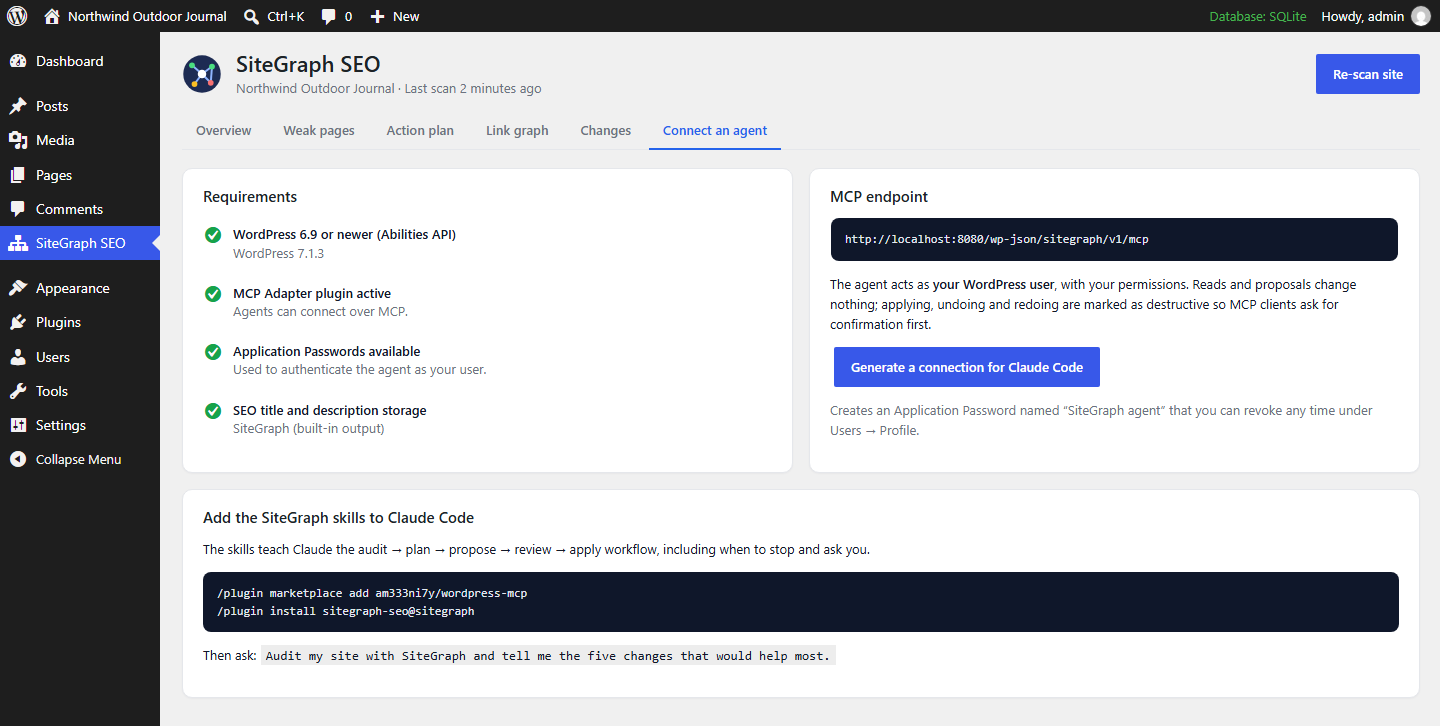
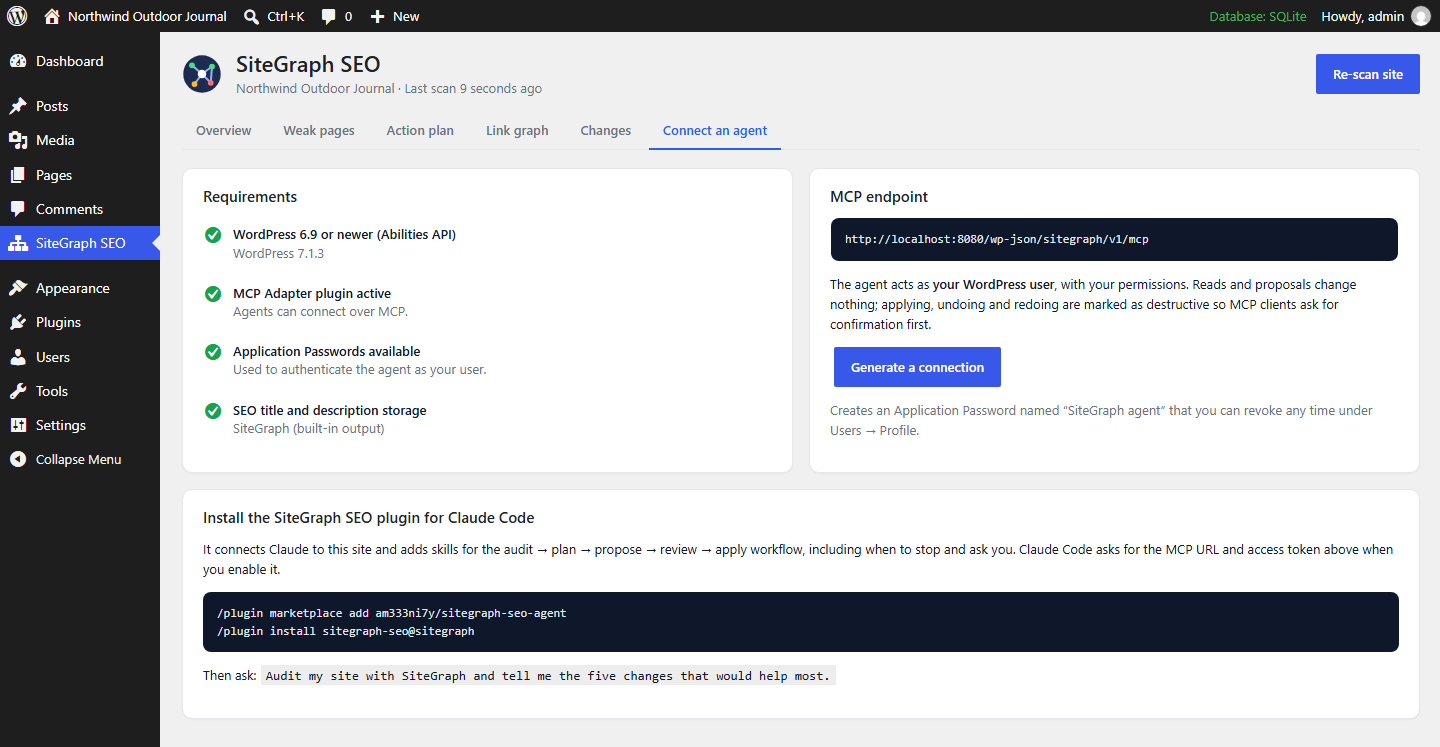
Rename to sitegraph-seo-agent and prepare the Claude plugin for the directory
- Update all links to github.com/am333ni7y/sitegraph-seo-agent
- Claude plugin connects to the site itself: .mcp.json with userConfig
  (MCP URL + access token, stored as a sensitive value)
- Add plugin README, LICENSE, icon, listing URLs and PRIVACY.md
- Connect screen shows the MCP URL and access token for the plugin
- Drop .gitattributes (the directory rejects content-rewriting attributes)
- WordPress plugin 0.1.1, Claude plugin 0.2.0

diff --git a/sitegraph-seo-agent/includes/class-admin.php b/sitegraph-seo-agent/includes/class-admin.php
@@ -745,23 +745,24 @@ class Admin {
 
 		echo '<div class="sg-card"><div class="sg-card-head"><h2>MCP endpoint</h2></div><p><code class="sg-code-block">' . esc_html( $endpoint ) . '</code></p>';
 		echo '<p>The agent acts as <strong>your WordPress user</strong>, with your permissions. Reads and proposals change nothing; applying, undoing and redoing are marked as destructive so MCP clients ask for confirmation first.</p>';
-		echo self::button_form( 'connect', array(), 'Generate a connection for Claude Code', 'button button-primary' ); // phpcs:ignore WordPress.Security.EscapeOutput
+		echo self::button_form( 'connect', array(), 'Generate a connection', 'button button-primary' ); // phpcs:ignore WordPress.Security.EscapeOutput
 		echo '<p class="sg-muted">Creates an Application Password named “SiteGraph agent” that you can revoke any time under Users → Profile.</p></div></div>';
 
 		if ( $connection ) {
 			$user  = wp_get_current_user()->user_login;
 			$token = base64_encode( $user . ':' . $connection ); // phpcs:ignore WordPress.PHP.DiscouragedPHPFunctions.obfuscation_base64_encode
 			echo '<div class="sg-card sg-secret"><div class="sg-card-head"><h2>Your connection (shown once)</h2></div>';
-			echo '<p>Run this in a terminal to add the server to Claude Code:</p>';
+			echo '<p><strong>With the SiteGraph SEO plugin for Claude:</strong> paste these two values when Claude Code asks for them.</p>';
+			echo '<p>MCP URL</p><pre class="sg-code-block">' . esc_html( $endpoint ) . '</pre>';
+			echo '<p>Access token</p><pre class="sg-code-block">' . esc_html( $token ) . '</pre>';
+			echo '<p><strong>Without the plugin:</strong> add the server yourself.</p>';
 			echo '<pre class="sg-code-block">claude mcp add --transport http sitegraph ' . esc_html( $endpoint ) . ' --header "Authorization: Basic ' . esc_html( $token ) . '"</pre>';
-			echo '<p>Or put this in a project’s <code>.mcp.json</code>:</p>';
-			echo '<pre class="sg-code-block">' . esc_html( wp_json_encode( array( 'mcpServers' => array( 'sitegraph' => array( 'type' => 'http', 'url' => $endpoint, 'headers' => array( 'Authorization' => 'Basic ' . $token ) ) ) ), JSON_PRETTY_PRINT | JSON_UNESCAPED_SLASHES ) ) . '</pre>';
-			echo '<p class="sg-muted">Treat this like a password. If it leaks, revoke the Application Password.</p></div>';
+			echo '<p class="sg-muted">Treat the token like a password. If it leaks, revoke the Application Password.</p></div>';
 		}
 
-		echo '<div class="sg-card"><div class="sg-card-head"><h2>Add the SiteGraph skills to Claude Code</h2></div>';
-		echo '<p>The skills teach Claude the audit → plan → propose → review → apply workflow, including when to stop and ask you.</p>';
-		echo '<pre class="sg-code-block">/plugin marketplace add am333ni7y/wordpress-mcp' . "\n" . '/plugin install sitegraph-seo@sitegraph</pre>';
+		echo '<div class="sg-card"><div class="sg-card-head"><h2>Install the SiteGraph SEO plugin for Claude Code</h2></div>';
+		echo '<p>It connects Claude to this site and adds skills for the audit → plan → propose → review → apply workflow, including when to stop and ask you. Claude Code asks for the MCP URL and access token above when you enable it.</p>';
+		echo '<pre class="sg-code-block">/plugin marketplace add am333ni7y/sitegraph-seo-agent' . "\n" . '/plugin install sitegraph-seo@sitegraph</pre>';
 		echo '<p>Then ask: <code>Audit my site with SiteGraph and tell me the five changes that would help most.</code></p></div>';
 	}
 }

diff --git a/sitegraph-seo-agent/sitegraph-seo-agent.php b/sitegraph-seo-agent/sitegraph-seo-agent.php
@@ -1,9 +1,9 @@
 <?php
 /**
  * Plugin Name:       SiteGraph SEO Agent
- * Plugin URI:        https://github.com/am333ni7y/wordpress-mcp
+ * Plugin URI:        https://github.com/am333ni7y/sitegraph-seo-agent
  * Description:       Finds your weak pages, turns your internal link graph and Search Console data into a prioritized action plan, and lets AI agents such as Claude fix issues as reviewable changesets with one-click undo and redo.
- * Version:           0.1.0
+ * Version:           0.1.1
  * Requires at least: 6.9
  * Requires PHP:      7.4
  * Author:            Amin Zahed (AMEEEN ZED) AMEEEN.IR
@@ -17,7 +17,7 @@
 
 defined( 'ABSPATH' ) || exit;
 
-define( 'SITEGRAPH_VERSION', '0.1.0' );
+define( 'SITEGRAPH_VERSION', '0.1.1' );
 define( 'SITEGRAPH_DB_VERSION', '1' );
 define( 'SITEGRAPH_FILE', __FILE__ );
 define( 'SITEGRAPH_DIR', plugin_dir_path( __FILE__ ) );

diff --git a/README.md b/README.md
@@ -2,7 +2,7 @@
 
 **Find the pages that are holding your WordPress site back, get a prioritized plan to fix them, and let Claude do the fixing — with a diff you approve and one-click undo.**
 
-[![CI](https://github.com/am333ni7y/wordpress-mcp/actions/workflows/ci.yml/badge.svg)](https://github.com/am333ni7y/wordpress-mcp/actions/workflows/ci.yml)
+[![CI](https://github.com/am333ni7y/sitegraph-seo-agent/actions/workflows/ci.yml/badge.svg)](https://github.com/am333ni7y/sitegraph-seo-agent/actions/workflows/ci.yml)
 ![WordPress 6.9+](https://img.shields.io/badge/WordPress-6.9%2B-21759b?logo=wordpress)
 ![PHP 7.4+](https://img.shields.io/badge/PHP-7.4%2B-777bb4?logo=php)
 ![MCP](https://img.shields.io/badge/MCP-Abilities%20API%20%2B%20MCP%20Adapter-7057ff)
@@ -150,26 +150,24 @@ Copy the [`sitegraph-seo-agent`](sitegraph-seo-agent) folder to `wp-content/plug
 
 Search Console → **Performance → Search results** → pick a date range → **Export → Download CSV**. Upload `Pages.csv` from the zip on the SiteGraph Overview screen.
 
-### 3. Connect Claude Code
+### 3. Generate a connection
 
-Open **SiteGraph SEO → Connect an agent** and click **Generate a connection for Claude Code**. It creates a revocable Application Password and shows a ready command once:
-
-```bash
-claude mcp add --transport http sitegraph https://your-site.com/wp-json/sitegraph/v1/mcp --header "Authorization: Basic <generated>"
-```
+Open **SiteGraph SEO → Connect an agent** and click **Generate a connection**. It creates a revocable Application Password and shows, once, the **MCP URL** and an **access token**.
 
 ![Connect screen with requirement checks, MCP endpoint and Claude Code setup](docs/screenshots/connect.png)
 
-### 4. Install the SiteGraph skills
+### 4. Install the SiteGraph SEO plugin for Claude Code
 
-The skills teach Claude the workflow: audit → plan → propose → review → apply, and when to stop and ask you. In Claude Code:
+The [Claude plugin](claude-plugin) connects Claude to your site and adds skills for the workflow: audit → plan → propose → review → apply, and when to stop and ask you. In Claude Code:
 
 ```text
-/plugin marketplace add am333ni7y/wordpress-mcp
+/plugin marketplace add am333ni7y/sitegraph-seo-agent
 /plugin install sitegraph-seo@sitegraph
 ```
 
-Then ask: *"Audit my site with SiteGraph and tell me the five changes that would help most."*
+Claude Code asks for the MCP URL and access token when you enable it; the token goes to your system's secure credential store. Then ask: *"Audit my site with SiteGraph and tell me the five changes that would help most."*
+
+Prefer to connect without the plugin? The Connect screen also shows a ready `claude mcp add --transport http sitegraph <MCP URL> --header "Authorization: Basic <token>"` command.
 
 | Skill | Use it for |
 |---|---|
@@ -240,7 +238,7 @@ Scores of 0–39 are *critical*, 40–59 *weak*, 60–79 *fair*, 80–100 *good*
 - **Exact, conflict-safe undo.** Changesets store the exact before/after of every field. Undo and redo refuse when content changed in the meantime and name the newer changeset that touched it; `force` exists but the skills only use it after you explicitly agree.
 - **History.** Who proposed, applied, undid and redid what, and when. WordPress revisions are still created as usual.
 
-See [SECURITY.md](SECURITY.md).
+See [SECURITY.md](SECURITY.md) and the [privacy policy](PRIVACY.md): SiteGraph has no server of its own, sends no telemetry, and the author receives no data.
 
 ---
 
@@ -278,11 +276,12 @@ CI runs the same suite on every push against the latest WordPress with SQLite an
 
 ```
 sitegraph-seo-agent/   WordPress plugin (abilities, MCP server, admin screens)
-claude-plugin/         Claude Code plugin: SiteGraph skills
-.claude-plugin/        Marketplace manifest (/plugin marketplace add am333ni7y/wordpress-mcp)
+claude-plugin/         Claude Code plugin: skills + MCP connection (userConfig)
+.claude-plugin/        Marketplace manifest (/plugin marketplace add am333ni7y/sitegraph-seo-agent)
 demo/                  Demo site seed, Search Console sample, sample changesets
 tests/                 Integration suite, test installer, php -S router
 docs/screenshots/      Images used in this README
+PRIVACY.md             Privacy policy (also linked from the Claude plugin)
 ```
 
 The earlier Node.js `wordpress-mcp` server (generic post CRUD over WP-CLI/REST) is preserved in the git history before this release.

diff --git a/PRIVACY.md b/PRIVACY.md
@@ -1,0 +1,32 @@
+# Privacy Policy
+
+_Last updated: October 7, 2026_
+
+This policy covers the **SiteGraph SEO Agent** WordPress plugin and the **SiteGraph SEO** plugin for Claude ("SiteGraph"), published by Amin Zahed.
+
+## Summary
+
+SiteGraph runs entirely on your own WordPress site and in your own Claude client. **The author does not operate any server for SiteGraph and receives no data from it** — no analytics, telemetry, accounts or tracking.
+
+## Data collection practices
+
+- **WordPress plugin.** When you scan, it reads your published posts and pages (titles, content, links, modification dates) and SEO title, description and focus keyword fields from your database. It stores the results — a link index, page scores and issues — in tables in your own WordPress database.
+- **Search Console data.** If you upload a Search Console export or an agent sends one, SiteGraph stores page URLs, clicks, impressions, CTR and average position in your WordPress database. It does not connect to Google itself.
+- **Changesets.** Proposed and applied changes, their before/after values, and the WordPress username and time of each action are stored in your WordPress database so they can be reviewed, undone and redone.
+- **Claude plugin.** It stores the MCP URL and access token you enter in your Claude client's configuration and secure credential store. It contains no code that collects data.
+
+## Usage and storage
+
+Data is used only to show reports, build the action plan and apply, undo or redo the changes you approve. It stays in your WordPress database and your Claude client.
+
+## Third-party sharing
+
+SiteGraph does not send data to the author or to any third party. When you use SiteGraph through Claude, the content Claude reads from your site through the SiteGraph tools is processed by Anthropic as part of your conversation, under Anthropic's own terms and privacy policy.
+
+## Data retention
+
+Data is kept until you delete it. Re-scanning replaces the link index; importing search data in "replace" mode replaces previous search data. Uninstalling the WordPress plugin deletes its tables and options. Content changes you applied stay in your posts. Revoke the Application Password under **Users → Profile** to stop agent access at any time.
+
+## Contact
+
+Questions about this policy: open an issue at <https://github.com/am333ni7y/sitegraph-seo-agent/issues>, or report a security problem through [GitHub Security Advisories](https://github.com/am333ni7y/sitegraph-seo-agent/security/advisories/new).

diff --git a/claude-plugin/README.md b/claude-plugin/README.md
@@ -1,0 +1,33 @@
+# SiteGraph SEO for Claude
+
+Skills and an MCP connection that let Claude audit a WordPress site running the **SiteGraph SEO Agent** plugin, explain which pages are weak and why, and fix internal links and search snippets. Every change is proposed as a changeset you review first, and can be undone or redone at any time.
+
+## What you need
+
+- A WordPress 6.9+ site with the [SiteGraph SEO Agent](https://github.com/am333ni7y/sitegraph-seo-agent) plugin and the [MCP Adapter](https://wordpress.org/plugins/mcp-adapter/) plugin active.
+- In wp-admin, open **SiteGraph SEO → Connect an agent** and click **Generate a connection**. Copy the **MCP URL** and **access token** it shows.
+- When you enable this plugin, Claude Code asks for those two values. The token is stored in your system's secure credential store.
+
+## Skills
+
+| Skill | What it does |
+|---|---|
+| `seo-audit` | Scans the site, checks Search Console coverage and reports the 3–5 changes that would help most, with evidence |
+| `fix-internal-links` | Finds existing sentences that can link to orphan, buried or page-2 pages, proposes the links, applies them after you approve |
+| `rewrite-snippets` | Drafts SEO titles and meta descriptions for low-CTR pages, applies only the options you pick |
+| `review-changes` | Lists what changed, undoes or redoes changesets, and compares search metrics before and after |
+
+Try: *"Audit my site with SiteGraph and tell me the five changes that would help most."*
+
+## What this plugin runs and sends
+
+- It declares one remote MCP server: the URL you enter, which is your own WordPress site. It sends requests only there, authenticated with the token you enter.
+- It contains no executable code, hooks or scripts — only the skill instructions above and the MCP server declaration.
+- Reading reports and proposing changes never modify your site. Applying, undoing and redoing a changeset do, and the skills tell Claude to do that only after you explicitly approve.
+- If you give Claude a Search Console export, the skills send its page rows to your site's `import-search-data` tool and nowhere else.
+
+The plugin author receives no data. See the [privacy policy](https://github.com/am333ni7y/sitegraph-seo-agent/blob/main/PRIVACY.md).
+
+## License
+
+MIT — see [LICENSE](LICENSE).

diff --git a/claude-plugin/skills/seo-audit/SKILL.md b/claude-plugin/skills/seo-audit/SKILL.md
@@ -5,7 +5,7 @@ description: Audit a WordPress site connected through the SiteGraph SEO Agent MC
 
 # SiteGraph SEO audit
 
-You are working with a WordPress site through the **SiteGraph SEO Agent** MCP server. Its tools are named `sitegraph-*` (in Claude Code they appear as `mcp__<server>__sitegraph-…`, usually `mcp__sitegraph__sitegraph-…`). If no `sitegraph-*` tools are available, tell the user to open **SiteGraph SEO → Connect an agent** in wp-admin and run the command shown there, then stop.
+You are working with a WordPress site through the **SiteGraph SEO Agent** MCP server. Its tools are named `sitegraph-*` (in Claude Code they appear as `mcp__<server>__sitegraph-…`, usually `mcp__sitegraph__sitegraph-…`). If no `sitegraph-*` tools are available, the connection is not set up: tell the user to open **SiteGraph SEO → Connect an agent** in wp-admin, click **Generate a connection**, and enter the MCP URL and access token when Claude Code asks for this plugin's settings. Users who prefer not to use the plugin's connection can run the `claude mcp add` command shown on the same screen instead. Then stop.
 
 ## Steps
 

diff --git a/SECURITY.md b/SECURITY.md
@@ -21,4 +21,4 @@ Content that agents read from your site may contain text written by others (comm
 
 ## Reporting a vulnerability
 
-Please do **not** open a public issue. Report it privately through [GitHub Security Advisories](https://github.com/am333ni7y/wordpress-mcp/security/advisories/new) with steps to reproduce. You will get an acknowledgement within 72 hours.
+Please do **not** open a public issue. Report it privately through [GitHub Security Advisories](https://github.com/am333ni7y/sitegraph-seo-agent/security/advisories/new) with steps to reproduce. You will get an acknowledgement within 72 hours.
